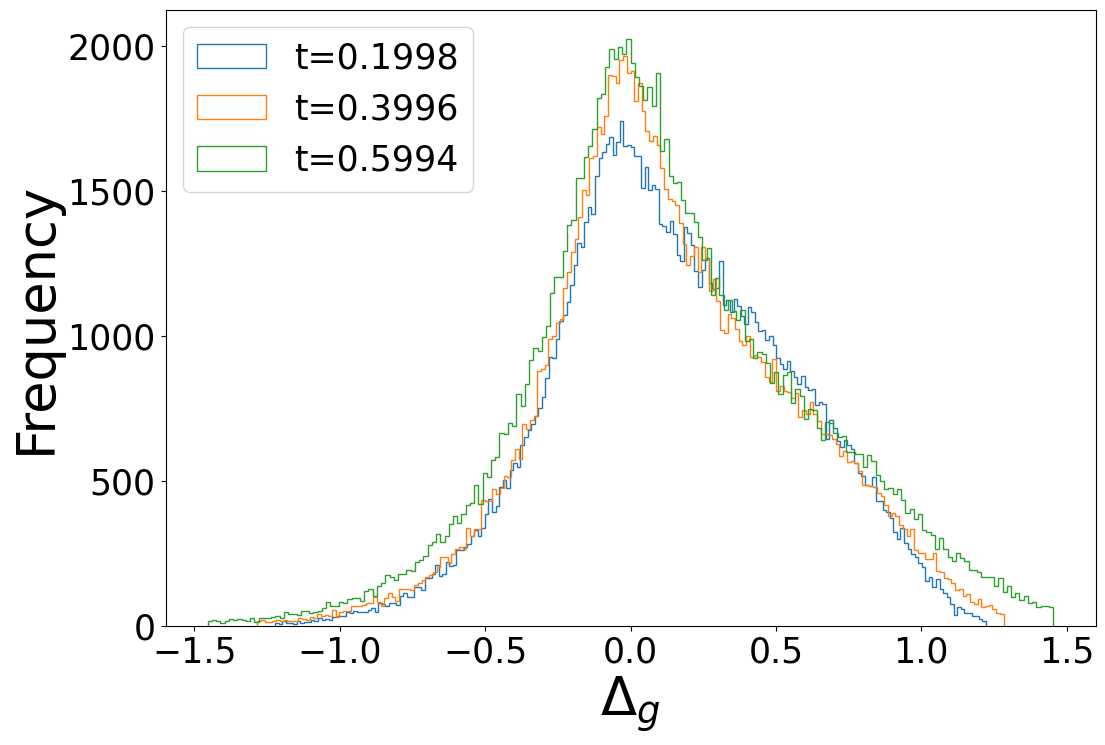
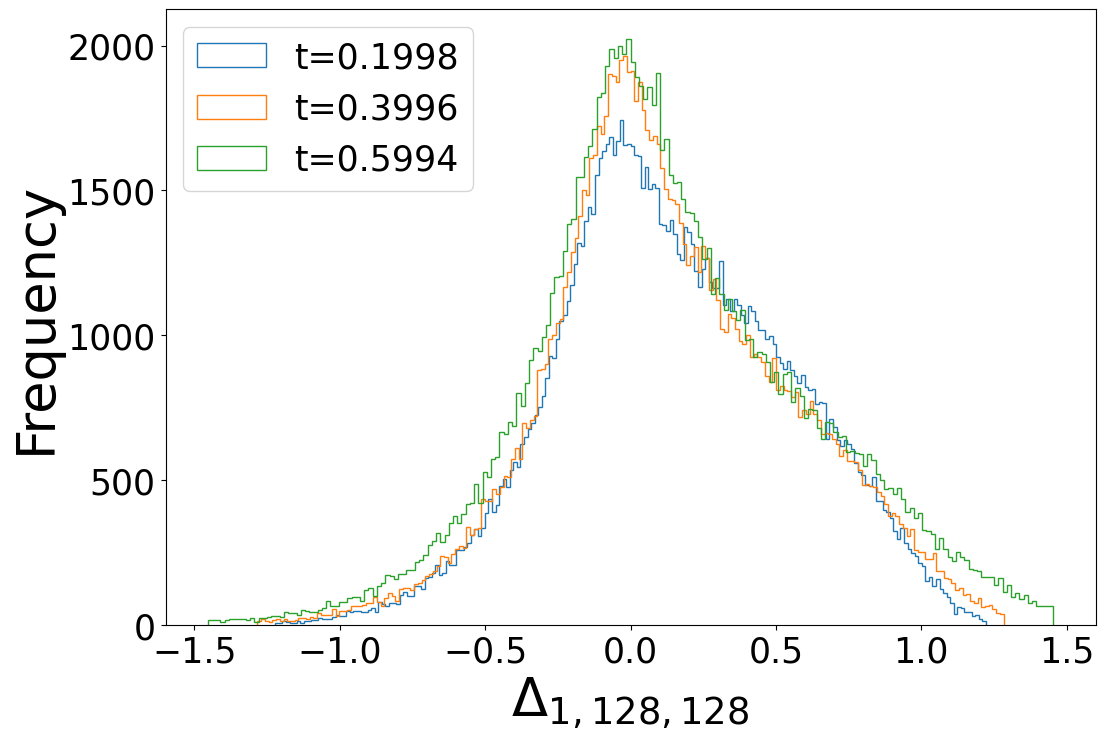
main_chart.py: fig_fid_train_from_scratch_celeba.png

diff --git a/RectifiedFlow_Pytorch/main_chart.py b/RectifiedFlow_Pytorch/main_chart.py
@@ -25,7 +25,7 @@ def run_delta_plot_distribution():
     def set_plt_ui():
         plt.tick_params('both', labelsize=25)
         # plt.title(r"Distribution of prediction error", fontsize=25)
-        plt.xlabel(f"$\\Delta_g$", fontsize=38)
+        plt.xlabel(f"$\\Delta_{{{c},{h},{w}}}$", fontsize=38)
         plt.ylabel("Frequency", fontsize=38)
         plt.legend(fontsize=25, loc='upper left')
 
@@ -54,10 +54,44 @@ def run_delta_plot_distribution():
         plt.close()
     # for
 
+def fid_train_from_scratch_celeba():
+    fid_s1  = [228.4, 209.6, 195.5, 187.7, 179.9, 173.7, 171.1, 165.1, 165.4, 160.8, 158.6]
+    fid_s2  = [111.9, 102.1, 94.71, 91.67, 88.30, 87.55, 86.71, 85.43, 86.61, 85.56, 85.24]
+    fid_s3  = [77.84, 68.59, 62.84, 58.78, 56.39, 57.04, 56.95, 55.90, 57.18, 56.83, 57.68]
+    fid_s4  = [55.02, 47.01, 43.36, 40.06, 38.79, 38.92, 39.04, 39.06, 40.35, 40.92, 42.19]
+    fid_s5  = [40.46, 34.25, 31.63, 29.40, 28.79, 29.04, 29.61, 29.86, 31.20, 32.17, 33.54]
+    fid_s6  = [31.18, 26.43, 24.93, 23.29, 23.09, 23.41, 24.16, 25.02, 26.31, 27.58, 28.90]
+    fid_s8  = [21.43, 18.79, 18.06, 17.07, 17.31, 17.81, 18.93, 20.01, 21.24, 22.72, 24.47]
+    fid_s10 = [16.84, 14.74, 14.49, 14.09, 14.67, 15.12, 16.39, 17.51, 18.81, 20.69, 22.29]
+    lambda_arr = [0.0, 0.1, 0.2, 0.3, 0.4, 0.5, 0.6, 0.7, 0.8, 0.9, 1.0]
+    fig = plt.figure(figsize=(16, 8))
+    ax1 = fig.add_subplot(1, 2, 1)
+    ax2 = fig.add_subplot(1, 2, 2)
+    ax1.tick_params('both', labelsize=20)
+    ax2.tick_params('both', labelsize=20)
+    ax1.plot(lambda_arr, fid_s2, linestyle='-', color='r', marker='o')
+    ax1.plot(lambda_arr, fid_s3, linestyle='-', color='g', marker='s')
+    ax1.plot(lambda_arr, fid_s4, linestyle='-', color='b', marker='d')
+    ax1.legend(['2 steps', '3 steps', '4 steps'], fontsize=20, loc='upper center')
+
+    ax2.plot(lambda_arr, fid_s6, linestyle='-', color='r', marker='o')
+    ax2.plot(lambda_arr, fid_s8, linestyle='-', color='g', marker='s')
+    ax2.plot(lambda_arr, fid_s10, linestyle='-', color='b', marker='d')
+    ax2.legend(['6 steps', '8 steps', '10 steps'], fontsize=20, loc='upper center')
+
+    fig.supylabel('    FID', fontsize=25, rotation=0)  # make it horizontal
+    fig.supxlabel('value of $\\lambda$', fontsize=25)
+    fig.suptitle("FID Comparison on CelebA by Different Sampling Steps", fontsize=30)
+    # plt.show()
+    f_path = './RectifiedFlow_Pytorch/configs/charts/fig_fid_train_from_scratch_celeba.png'
+    fig.savefig(f_path, bbox_inches='tight')
+    print(f"file saved: {f_path}")
+    plt.close()
 
 def main():
     """ entry point """
-    run_delta_plot_distribution()
+    # run_delta_plot_distribution()
+    fid_train_from_scratch_celeba()
 
 if __name__ == '__main__':
     main()

diff --git a/RectifiedFlow_Pytorch/rectified_flow_sampling.py b/RectifiedFlow_Pytorch/rectified_flow_sampling.py
@@ -75,6 +75,7 @@ class RectifiedFlowSampling:
             b_cnt += 1
         c_data = config.data
         c, h, w = c_data.num_channels, c_data.image_size, c_data.image_size
+        log_info(f"  img_cnt: {img_cnt}")
         log_info(f"  b_sz  : {b_sz}")
         log_info(f"  b_cnt : {b_cnt}")
         log_info(f"  c     : {c}")
